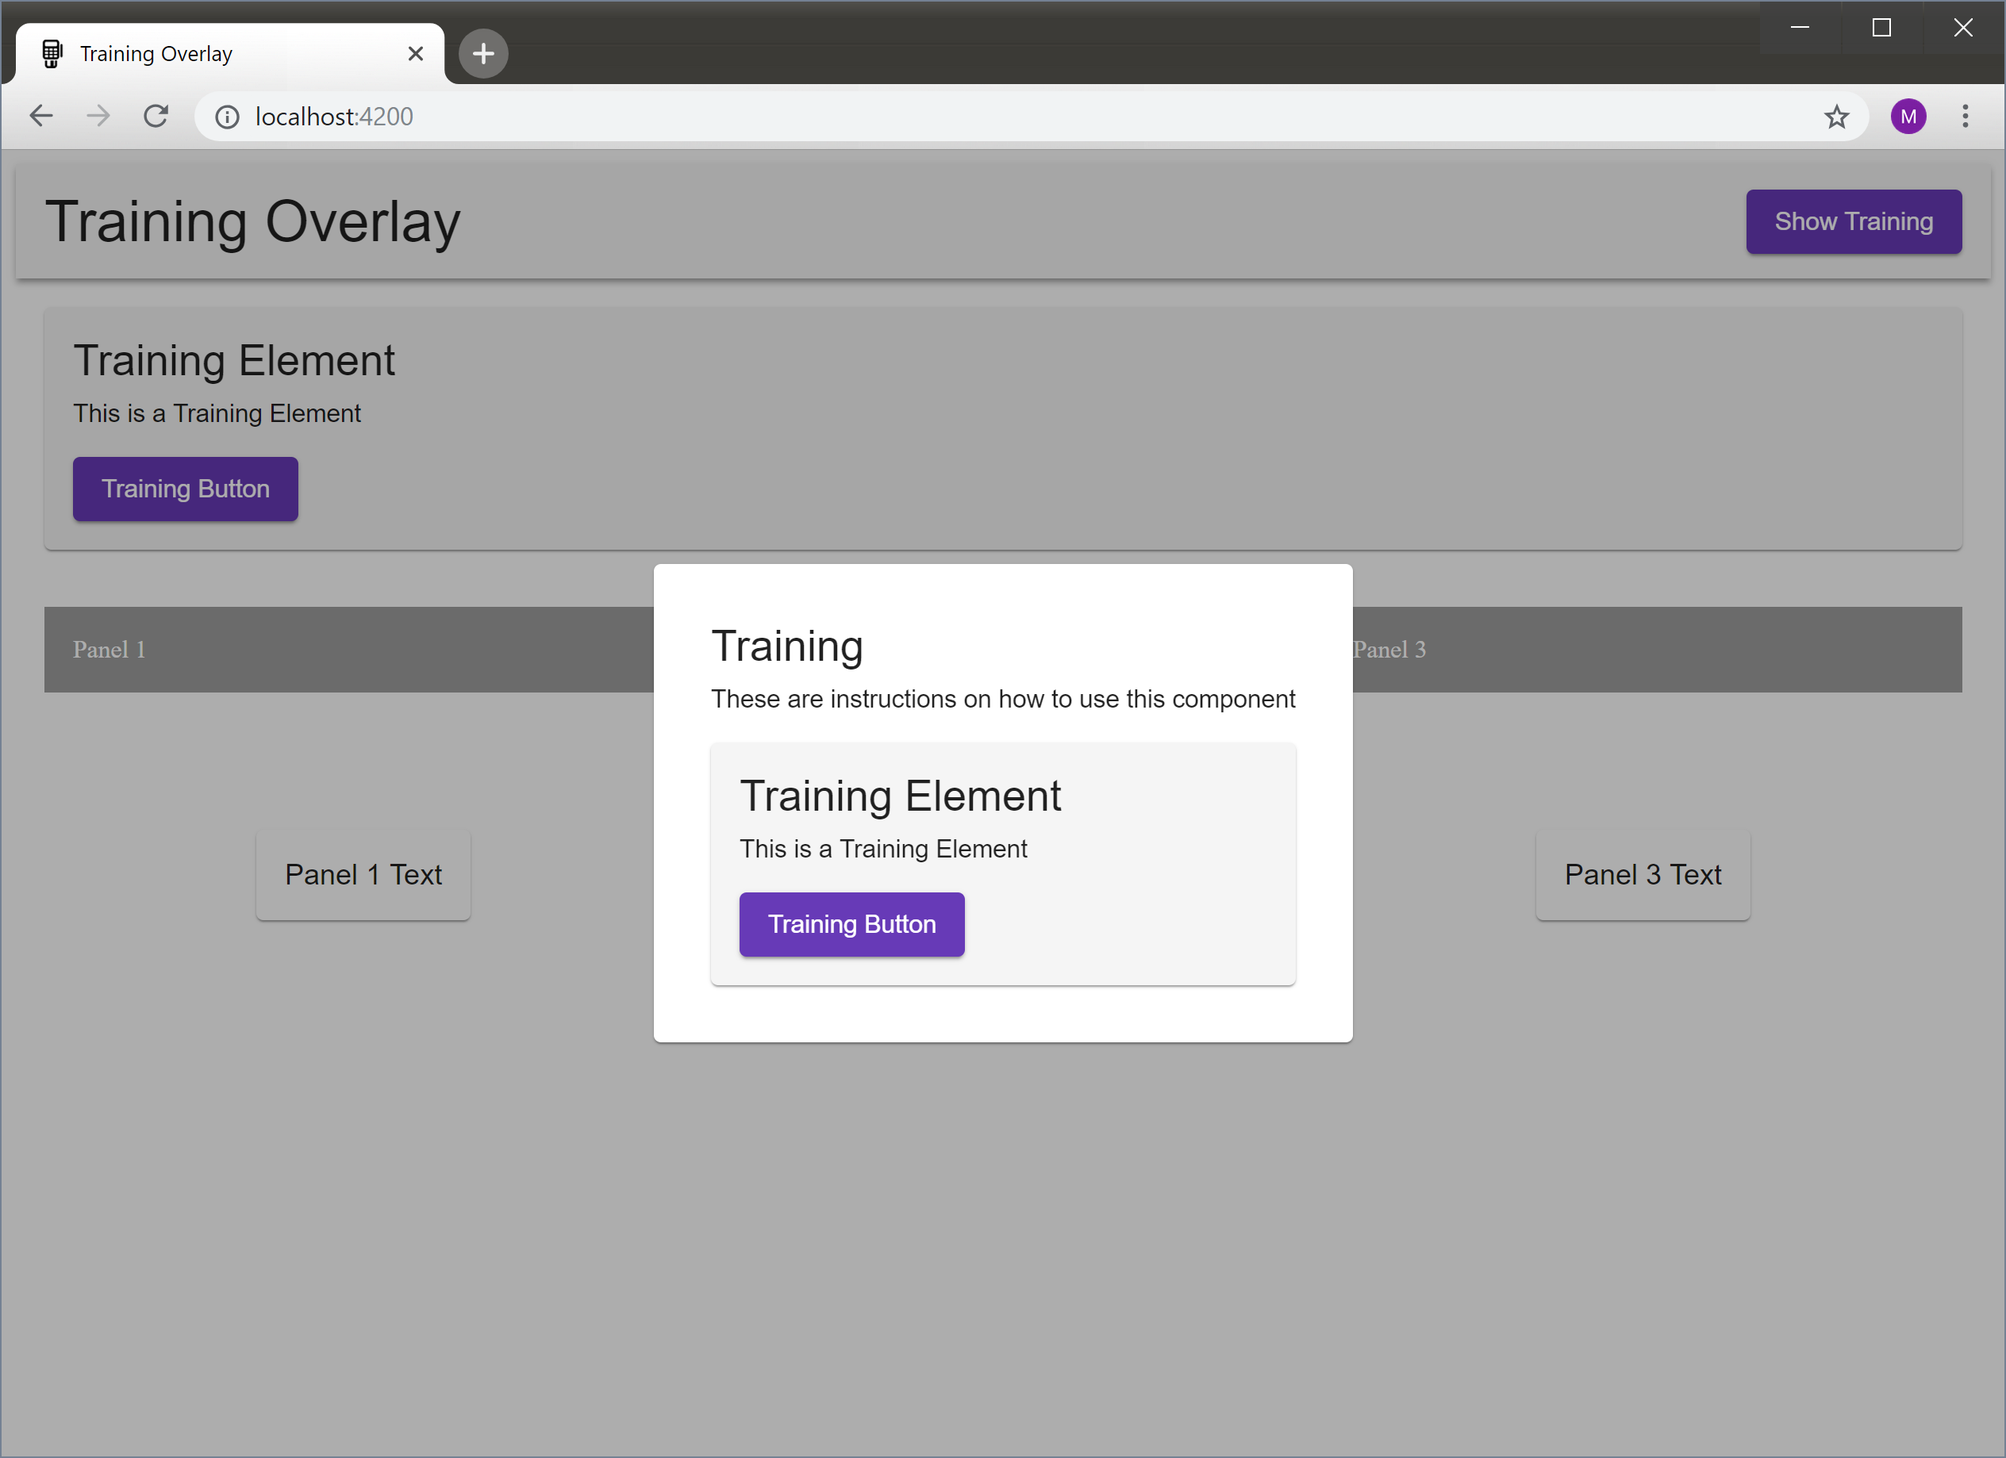
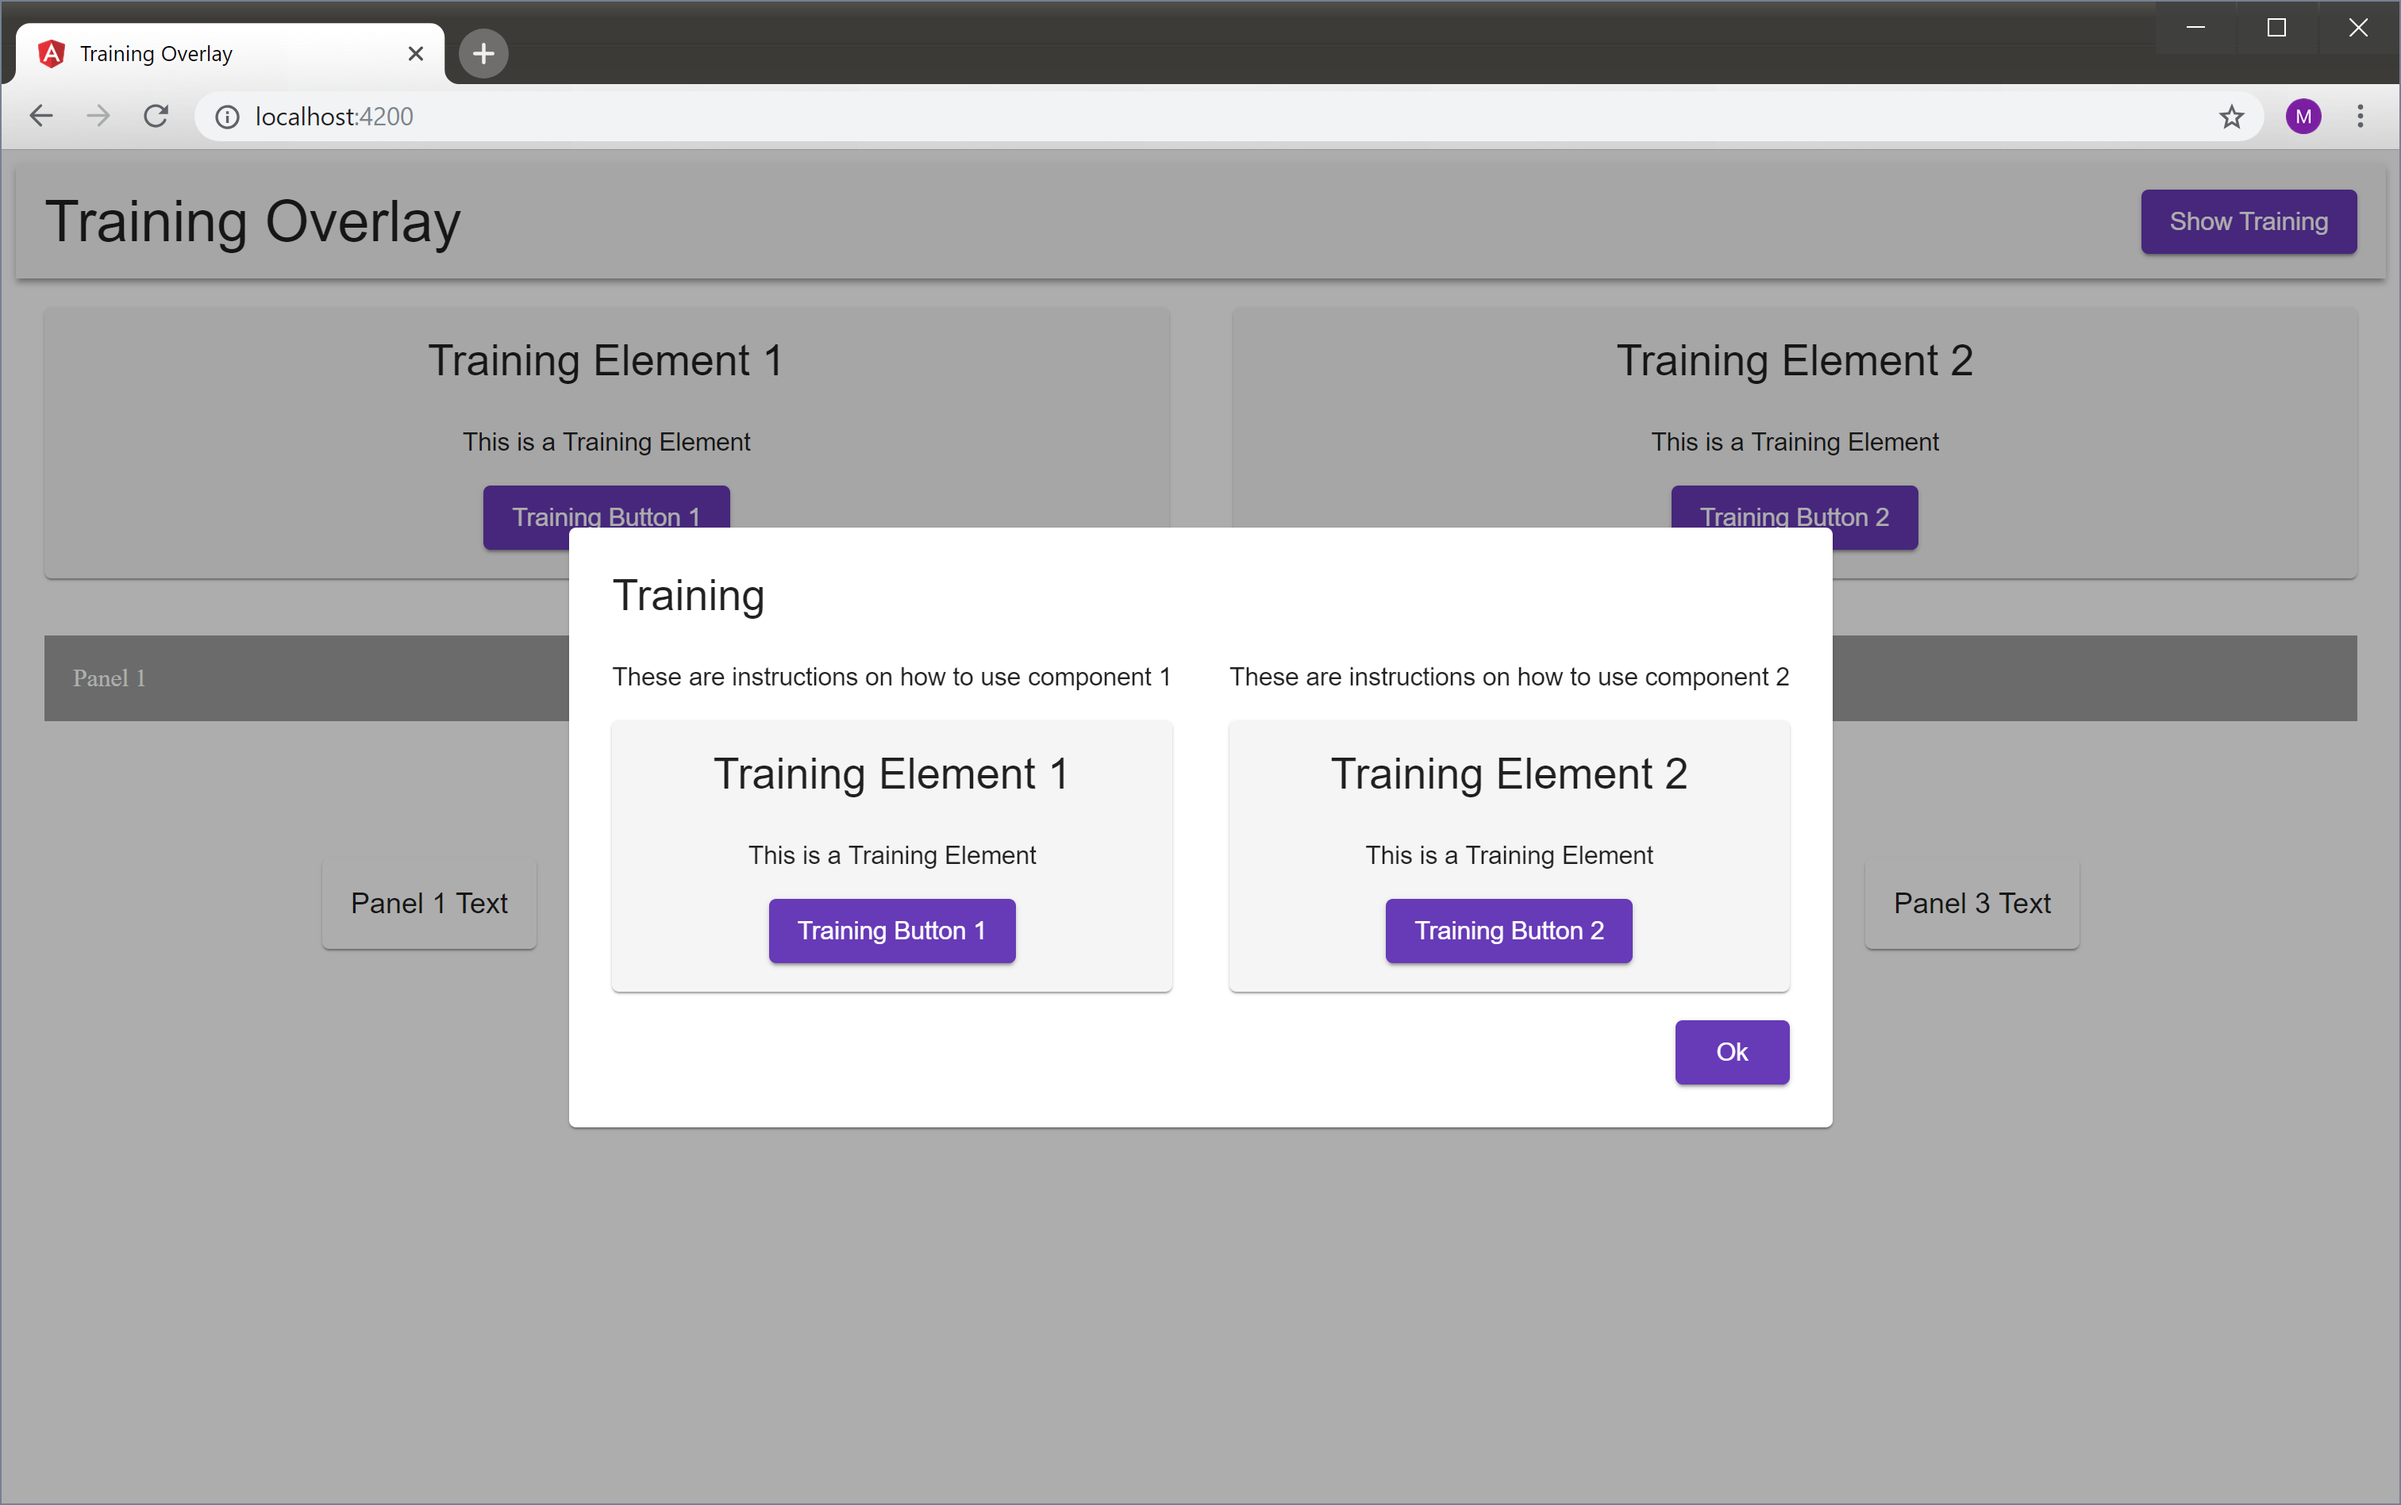
Add support for multiple training elements

Changed region(s): [[0.0, 0.0, 1.0, 0.7753]]

diff --git a/src/app/training-overlay/training-overlay.service.ts b/src/app/training-overlay/training-overlay.service.ts
@@ -3,14 +3,14 @@ import { Overlay, OverlayConfig, OverlayRef } from '@angular/cdk/overlay';
 import { ComponentPortal, PortalInjector } from '@angular/cdk/portal';
 import { TrainingOverlayRef } from './training-overlay-ref';
 import { TrainingDialogComponent } from '../training-dialog/training-dialog.component';
-import { TEMPLATE_DATA, TRAINING_DATA } from './training-token';
+import { TEMPLATE_DATA, INSTRUCTIONS_DATA } from './training-token';
 
 @Injectable()
 export class TrainingOverlayService {
 
   constructor(public injector: Injector, private overlay: Overlay) { }
 
-  open(templateRef: TemplateRef<any>, instructions: string) {
+  open(templateMap: Map<string, TemplateRef<any>>, instructionsMap: Map<string, string>) {
     // Returns an OverlayRef which is a PortalHost
     const overlayRef = this.createOverlay();
 
@@ -18,7 +18,7 @@ export class TrainingOverlayService {
     const dialogRef = new TrainingOverlayRef(overlayRef);
 
     // Create and attach the dialog component
-    const overlayComponent = this.attachDialogContainer(overlayRef, dialogRef, templateRef, instructions);
+    const overlayComponent = this.attachDialogContainer(overlayRef, dialogRef, templateMap, instructionsMap);
 
     // Close dialog on backdrop click
     overlayRef.backdropClick().subscribe(_ => dialogRef.close());
@@ -32,8 +32,8 @@ export class TrainingOverlayService {
   }
 
   private attachDialogContainer(overlayRef: OverlayRef, dialogRef: TrainingOverlayRef,
-    templateRef: TemplateRef<any>, instructions: string) {
-    const portalInjector = this.createInjector(dialogRef, templateRef, instructions);
+    templateMap: Map<string, TemplateRef<any>>, instructionsMap: Map<string, string>) {
+    const portalInjector = this.createInjector(dialogRef, templateMap, instructionsMap);
 
     // Create component portal (i.e. the component to display as a dialog)
     const containerPortal = new ComponentPortal(TrainingDialogComponent, null, portalInjector);
@@ -44,17 +44,18 @@ export class TrainingOverlayService {
     return containerRef.instance;
   }
 
-  private createInjector(dialogRef: TrainingOverlayRef, templateRef: TemplateRef<any>, instructions: string): PortalInjector {
+  private createInjector(dialogRef: TrainingOverlayRef,
+    templateMap: Map<string, TemplateRef<any>>, instructionsMap: Map<string, string>): PortalInjector {
     const injectionTokens = new WeakMap();
 
     // Pass the dialogRef to the TrainingDialogComponent
     injectionTokens.set(TrainingOverlayRef, dialogRef);
 
     // Pass the templateRef to the TrainingDialogComponent
-    injectionTokens.set(TEMPLATE_DATA, templateRef);
+    injectionTokens.set(TEMPLATE_DATA, templateMap);
 
     // Pass the training instructions to the TrainingDialogComponent
-    injectionTokens.set(TRAINING_DATA, instructions);
+    injectionTokens.set(INSTRUCTIONS_DATA, instructionsMap);
 
     return new PortalInjector(this.injector, injectionTokens);
   }

diff --git a/src/app/dashboard/dashboard.component.html b/src/app/dashboard/dashboard.component.html
@@ -1,26 +1,38 @@
-<div class="main-background">
-  <mat-toolbar class="mat-elevation-z3">
-    <span class="toolbar-title">{{title}}</span>
-    <button mat-raised-button color="primary" (click)="onTraining()">Show Training</button>
-  </mat-toolbar>
+<mat-toolbar fxLayout="row" class="mat-elevation-z3">
+  <span fxFlex="1 1 0" class="toolbar-title">{{title}}</span>
+  <button mat-raised-button color="primary" (click)="onTraining()">Show Training</button>
+</mat-toolbar>
 
-  <div class="dashboard">
-    <ng-template #trainingTemplate>
-      <mat-card class="training-element">
-        <mat-card-title> Training Element </mat-card-title>
+<div class="dashboard">
+
+  <div fxLayout="row" fxLayoutGap="36px">
+    <ng-template appTraining name="training1">
+      <mat-card fxFlex="1 1 auto" fxLayout="column" fxLayoutAlign="center center" class="element-card">
+        <mat-card-title> Training Element 1 </mat-card-title>
         <mat-card-content>
-          <div>This is a Training Element</div>
+          <div> {{elementText}} </div>
         </mat-card-content>
-        <button mat-raised-button color="primary" (click)="onClick()">Training Button</button>
+        <button mat-raised-button color="primary" (click)="onClick()">Training Button 1</button>
       </mat-card>
     </ng-template>
-    <ng-template [ngTemplateOutlet]="templateRef"></ng-template>
+    <ng-template [ngTemplateOutlet]="templateMap.get('training1')"></ng-template>
 
-    <mat-grid-list cols="3" rowHeight="300px" class="grid-list">
-      <mat-grid-tile *ngFor="let panel of panels">
-        <mat-grid-tile-header> {{panel.title}} </mat-grid-tile-header>
-        <mat-card> {{panel.text}} </mat-card>
-      </mat-grid-tile>
-    </mat-grid-list>
+    <ng-template appTraining name="training2">
+      <mat-card fxFlex="1 1 auto" fxLayout="column" fxLayoutAlign="center center" class="element-card">
+        <mat-card-title> Training Element 2 </mat-card-title>
+        <mat-card-content>
+          <div> {{elementText}} </div>
+        </mat-card-content>
+        <button mat-raised-button color="primary" (click)="onClick()">Training Button 2</button>
+      </mat-card>
+    </ng-template>
+    <ng-template [ngTemplateOutlet]="templateMap.get('training2')"></ng-template>
   </div>
+
+  <mat-grid-list cols="3" rowHeight="300px" class="grid-list">
+    <mat-grid-tile *ngFor="let panel of panels">
+      <mat-grid-tile-header> {{panel.title}} </mat-grid-tile-header>
+      <mat-card> {{panel.text}} </mat-card>
+    </mat-grid-tile>
+  </mat-grid-list>
 </div>

diff --git a/src/app/training-element/training-element.component.ts b/src/app/training-element/training-element.component.ts
@@ -1,0 +1,38 @@
+import { Component, AfterViewInit, QueryList, ViewChildren, TemplateRef } from '@angular/core';
+import { TrainingOverlayService } from '../training-overlay/training-overlay.service';
+import { TrainingDirective } from '../training.directive';
+
+
+@Component({
+  selector: 'app-training-element',
+  templateUrl: './training-element.component.html',
+  styleUrls: ['./training-element.component.scss']
+})
+export class TrainingElementComponent implements AfterViewInit {
+
+  @ViewChildren(TrainingDirective) trainingDirectives: QueryList<TrainingDirective>;
+
+  templateMap: Map<string, TemplateRef<any>> = new Map();
+  instructionsMap: Map<string, string> = new Map();
+
+  constructor(private trainingService: TrainingOverlayService) {
+    // Set training instructions for each training element
+    this.instructionsMap.set('training1', 'These are instructions on how to use component 1');
+    this.instructionsMap.set('training2', 'These are instructions on how to use component 2');
+  }
+
+  ngAfterViewInit() {
+    // Use setTimeout to avoid ExpressionChangedAfterItHasBeenCheckedError
+    setTimeout(() =>
+      this.trainingDirectives.forEach(directive => {
+        this.templateMap.set(directive.name, directive.templateRef);
+      })
+    );
+  }
+
+  onTraining() {
+    // Open a dialog with the template ref embedded
+    this.trainingService.open(this.templateMap, this.instructionsMap);
+  }
+
+}

diff --git a/src/app/dashboard/dashboard.component.ts b/src/app/dashboard/dashboard.component.ts
@@ -1,6 +1,6 @@
-import { Component, OnInit, ViewChild, TemplateRef, ElementRef } from '@angular/core';
+import { Component } from '@angular/core';
 import { Panel } from '../dashboard-panel/panel';
-import { TrainingOverlayService } from '../training-overlay/training-overlay.service';
+import { TrainingElementComponent } from '../training-element/training-element.component';
 
 
 @Component({
@@ -8,7 +8,7 @@ import { TrainingOverlayService } from '../training-overlay/training-overlay.ser
   templateUrl: './dashboard.component.html',
   styleUrls: ['./dashboard.component.scss']
 })
-export class DashboardComponent implements OnInit {
+export class DashboardComponent extends TrainingElementComponent {
 
   panels: Panel[] = [
     { title: 'Panel 1', text: 'Panel 1 Text' },
@@ -17,18 +17,7 @@ export class DashboardComponent implements OnInit {
   ];
 
   title = 'Training Overlay';
-
-  @ViewChild('trainingTemplate', { read: TemplateRef }) templateRef: TemplateRef<any>;
-
-  constructor(private trainingService: TrainingOverlayService) { }
-
-  ngOnInit() {
-  }
-
-  onTraining() {
-    // Open a dialog with the template ref embedded
-    this.trainingService.open(this.templateRef, 'These are instructions on how to use this component');
-  }
+  elementText = 'This is a Training Element';
 
   onClick() {
     console.log('Clicked!');

diff --git a/src/app/app.module.ts b/src/app/app.module.ts
@@ -5,12 +5,15 @@ import { BrowserAnimationsModule } from '@angular/platform-browser/animations';
 import { MatButtonModule, MatCheckboxModule, MatCardModule, MatGridListModule, MatToolbarModule } from '@angular/material';
 import { OverlayModule } from '@angular/cdk/overlay';
 
+import {FlexLayoutModule} from '@angular/flex-layout';
 
 import { AppComponent } from './app.component';
 import { DashboardComponent } from './dashboard/dashboard.component';
 import { DashboardPanelComponent } from './dashboard-panel/dashboard-panel.component';
 import { TrainingDialogComponent } from './training-dialog/training-dialog.component';
 import { TrainingOverlayService } from './training-overlay/training-overlay.service';
+import { TrainingElementComponent } from './training-element/training-element.component';
+import { TrainingDirective } from './training.directive';
 
 
 @NgModule({
@@ -22,13 +25,16 @@ import { TrainingOverlayService } from './training-overlay/training-overlay.serv
     MatCardModule,
     MatGridListModule,
     MatToolbarModule,
-    OverlayModule
+    OverlayModule,
+    FlexLayoutModule
   ],
   declarations: [
     AppComponent,
     DashboardComponent,
     DashboardPanelComponent,
     TrainingDialogComponent,
+    TrainingElementComponent,
+    TrainingDirective,
   ],
   bootstrap: [AppComponent],
   providers: [

diff --git a/src/app/training-dialog/training-dialog.component.ts b/src/app/training-dialog/training-dialog.component.ts
@@ -1,6 +1,6 @@
 import { Component, OnInit, Inject, TemplateRef } from '@angular/core';
 import { TrainingOverlayRef } from '../training-overlay/training-overlay-ref';
-import { TEMPLATE_DATA, TRAINING_DATA } from '../training-overlay/training-token';
+import { TEMPLATE_DATA, INSTRUCTIONS_DATA } from '../training-overlay/training-token';
 
 @Component({
   selector: 'app-training-dialog',
@@ -9,17 +9,25 @@ import { TEMPLATE_DATA, TRAINING_DATA } from '../training-overlay/training-token
 })
 export class TrainingDialogComponent implements OnInit {
 
-  templateRef: TemplateRef<any>;
-  instructions: string;
+  templateMap: Map<string, TemplateRef<any>>;
+  instructionsMap: Map<string, string>;
 
   constructor(public dialogRef: TrainingOverlayRef,
     @Inject(TEMPLATE_DATA) public templateData,
-    @Inject(TRAINING_DATA) public trainingData) { }
+    @Inject(INSTRUCTIONS_DATA) public instructionsData) { }
 
   ngOnInit() {
     // Display the component/templateRef passed into data
-    this.templateRef = this.templateData;
-    this.instructions = this.trainingData;
+    this.templateMap = this.templateData;
+    this.instructionsMap = this.instructionsData;
+  }
+
+  getKeys(map: Map<any, any>) {
+    return Array.from(map.keys());
+  }
+
+  close() {
+    this.dialogRef.close();
   }
 
 }

diff --git a/src/app/training-dialog/training-dialog.component.html b/src/app/training-dialog/training-dialog.component.html
@@ -1,7 +1,14 @@
 <mat-card class="training-dialog">
-    <mat-card-title>Training</mat-card-title>
-    <mat-card-content>
-        <div> {{instructions}} </div>
+    <mat-card-title class="training-title">Training</mat-card-title>
+    <mat-card-content fxLayout="row" fxLayoutGap="32px">
+        <div fxFlex="1 1 auto" *ngFor="let id of getKeys(templateMap)">
+            <div class="training-instructions"> {{instructionsMap.get(id)}} </div>
+            <div>
+                <ng-template [ngTemplateOutlet]="templateMap.get(id)"></ng-template>
+            </div>
+        </div>
     </mat-card-content>
-    <ng-template [ngTemplateOutlet]="templateRef"></ng-template>
+    <div fxLayout="row" fxLayoutAlign="end center">
+        <button mat-raised-button color="primary" (click)="close()"> Ok </button>
+    </div>
 </mat-card>

diff --git a/src/app/training-overlay/training-token.ts b/src/app/training-overlay/training-token.ts
@@ -2,4 +2,4 @@ import { InjectionToken } from '@angular/core';
 
 // Create injection tokens for the training overlay to avoid circular dependencies
 export const TEMPLATE_DATA = new InjectionToken<{}>('TEMPLATE_DATA');
-export const TRAINING_DATA = new InjectionToken<{}>('TRAINING_DATA');
+export const INSTRUCTIONS_DATA = new InjectionToken<{}>('INSTRUCTIONS_DATA');

diff --git a/src/app/dashboard/dashboard.component.scss b/src/app/dashboard/dashboard.component.scss
@@ -1,9 +1,4 @@
-.main-background {
-    height: 100%;
-}
-
 .toolbar-title {
-    flex: 1 1 0;
     font-size: 32px;
 }
 
@@ -11,8 +6,12 @@
     margin: 16px; 
 }
 
-.training-element {
+.element-card {
     background-color: #f5f5f5;
+
+    mat-card-title {
+        padding-bottom: 16px;
+    }
 }
 
 .grid-list {

diff --git a/src/app/training.directive.ts b/src/app/training.directive.ts
@@ -1,0 +1,12 @@
+import { Directive, TemplateRef, Input } from '@angular/core';
+
+@Directive({
+    selector: '[appTraining]'
+})
+export class TrainingDirective {
+
+    @Input() name: string;
+
+    constructor(public templateRef: TemplateRef<any>) {
+    }
+}

diff --git a/src/app/training-dialog/training-dialog.component.scss b/src/app/training-dialog/training-dialog.component.scss
@@ -1,5 +1,13 @@
 .training-dialog {
-    padding: 32px;
+    padding: 24px;
+}
+
+.training-title {
+    padding-bottom: 16px;
+}
+
+.training-instructions {
+    padding-bottom: 16px;
 }
 
 .template-div {
